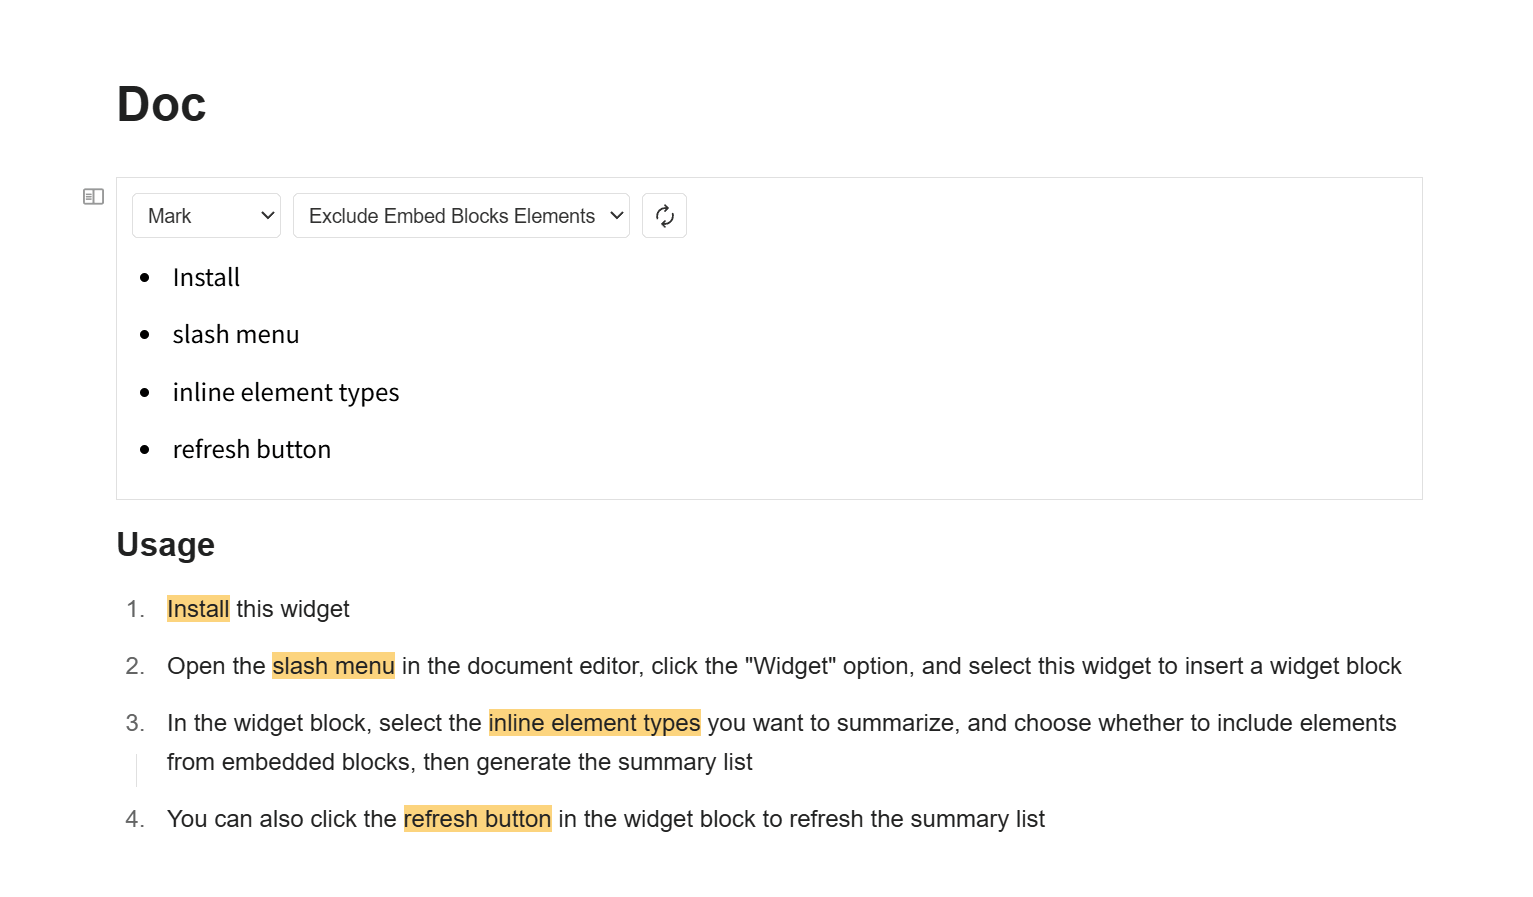
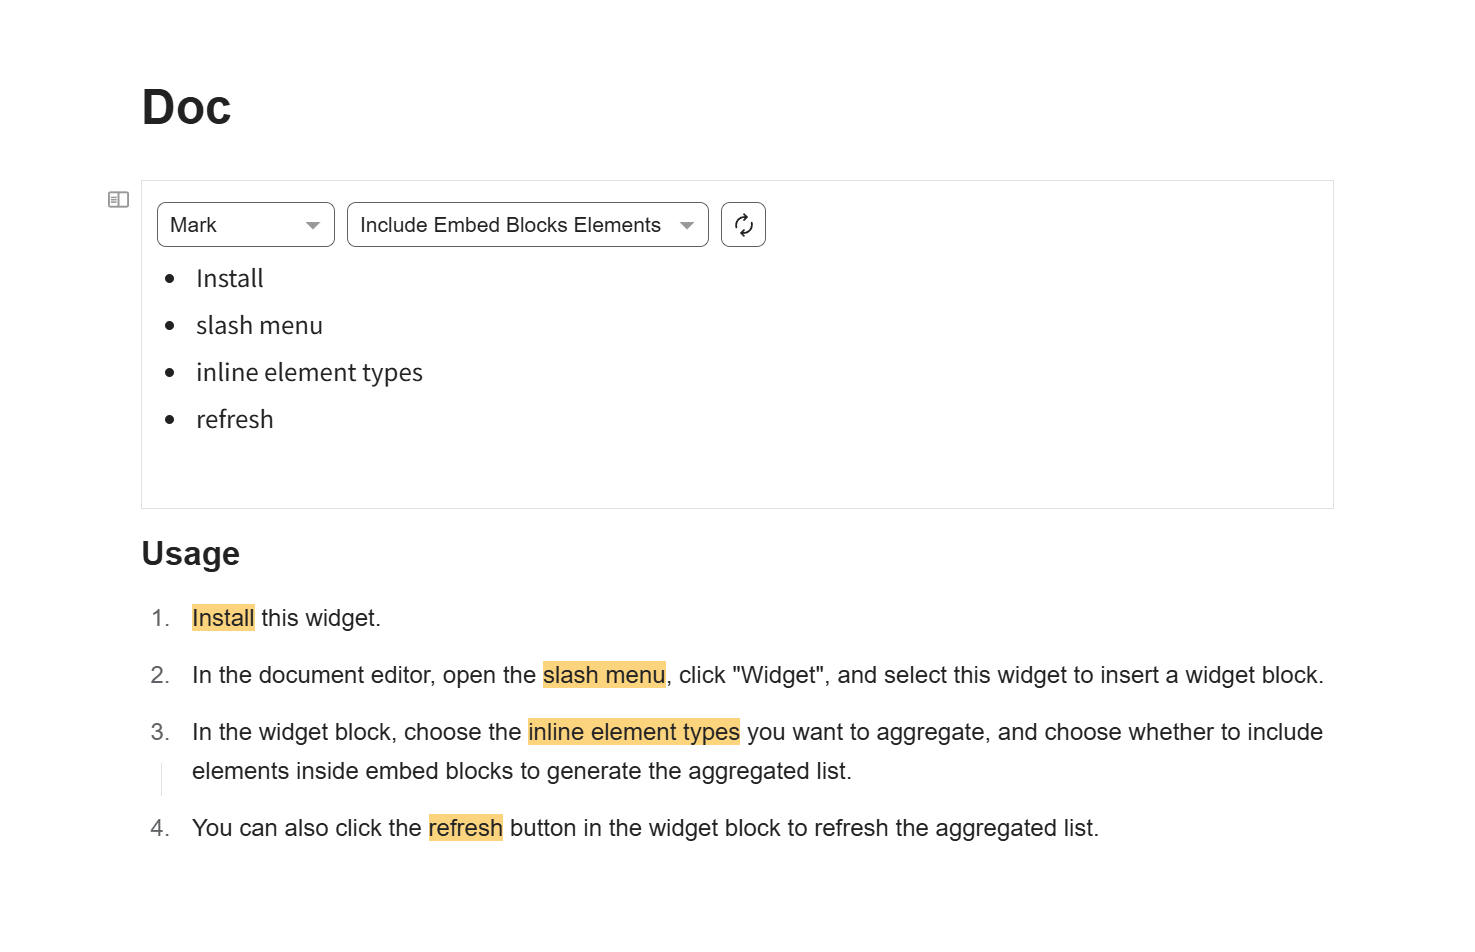
docx: 更新文档

diff --git a/README.md b/README.md
@@ -1,10 +1,19 @@
 ### Usage
 
-1. Install this widget
-2. Open the slash menu in the document editor, click the "Widget" option, and select this widget to insert a widget block
-3. In the widget block, select the inline element types you want to summarize, and choose whether to include elements from embedded blocks, then generate the summary list
-4. You can also click the refresh button in the widget block to refresh the summary list
+1. Install this widget.
+2. In the document editor, open the slash menu, click "Widget", and select this widget to insert a widget block.
+3. In the widget block, choose the inline element types you want to aggregate, and choose whether to include elements inside embed blocks to generate the aggregated list.
+4. You can also click the refresh button in the widget block to refresh the aggregated list.
 
 ### Acknowledgments
 
-Thanks to [hqweay](https://github.com/hqweay), the author of [widget-inline-extractor](https://github.com/hqweay/widget-inline-extractor), for providing inspiration for this project.
+Thanks to the author of the [widget-inline-extractor](https://github.com/hqweay/widget-inline-extractor) widget, [hqweay](https://github.com/hqweay), for inspiring this project.
+
+### Migrating from the widget-inline-extractor widget
+
+1. Open Global Search, switch to the SQL search mode, and search for:
+  
+    `SELECT * FROM blocks WHERE markdown LIKE '<iframe src="/widgets/widget-inline-extractor%';`
+
+2. The search results will list all widget-inline-extractor widget blocks in your workspace.
+3. Manually insert this widget for each result, and then delete the corresponding widget-inline-extractor widget blocks.

diff --git a/BUILD_README.md b/BUILD_README.md
@@ -1,0 +1,44 @@
+# 构建说明
+
+## 项目配置
+
+本项目使用 Vite + TypeScript 构建，支持以下功能：
+
+- **开发模式**: `pnpm dev` - 连续构建开发版本文件（不启动服务器）
+- **构建模式**: `pnpm build` - 构建生产版本并生成 package.zip
+
+## 构建特性
+
+1. **SCSS 编译**: 使用 `sass-embedded` 编译 SCSS 文件并压缩
+2. **资源内联**: 自动将 CSS 和 JS 内联到 HTML 文件中
+3. **代码压缩**: 使用 Terser 压缩 JavaScript 代码（仅生产模式）
+4. **包生成**: 自动生成包含所有必要文件的 package.zip（仅生产模式）
+
+## 命令说明
+
+- **`pnpm dev`**: 开发模式连续构建，只生成文件，不启动服务器（基于 `scripts/dev-build.js`）
+  - 输出 `index.html`（已内联资源）
+  - CSS 压缩，JavaScript 不压缩，便于调试
+
+- **`pnpm build`**: 生产模式构建（`vite build && node scripts/build-package.js`）
+  - 生成 `index.html` - 内联了所有资源且已压缩
+  - CSS 和 JavaScript 均压缩
+  - 生成 `package.zip` - 包含：
+    - `icon.png`
+    - `preview.png`
+    - `README.md`
+    - `README_zh_CN.md`
+    - `widget.json`
+    - `index.html`
+
+## 技术栈
+
+- **Vite**: ^7.1.9
+- **TypeScript**: ^5.9.3
+- **@types/node**: ^24.6.2
+- **sass-embedded**: ^1.69.5
+- **terser**: ^5.24.0
+- **archiver**: ^7.0.1
+- **siyuan**: ^1.1.5
+
+注：Node.js 版本请使用与本地环境兼容的稳定版本；依赖的准确版本以 `package.json` 为准。

diff --git a/README_zh_CN.md b/README_zh_CN.md
@@ -7,4 +7,13 @@
 
 ### 致谢
 
-感谢 [widget-inline-extractor](https://github.com/hqweay/widget-inline-extractor) 的作者 [hqweay](https://github.com/hqweay) 为本项目提供了灵感。
+感谢 [行内元素抓取](https://github.com/hqweay/widget-inline-extractor) 挂件的作者 [hqweay](https://github.com/hqweay) 为本项目提供了灵感。
+
+### 从 行内元素抓取 挂件迁移
+
+1. 打开全局搜索，切换到 SQL 搜索方式，搜索：
+  
+    `SELECT * FROM blocks WHERE markdown LIKE '<iframe src="/widgets/widget-inline-extractor%';`
+
+2. 搜索结果会显示工作空间中的所有 行内元素抓取 挂件块
+3. 手动一个个插入本挂件，然后删除 行内元素抓取 挂件块
